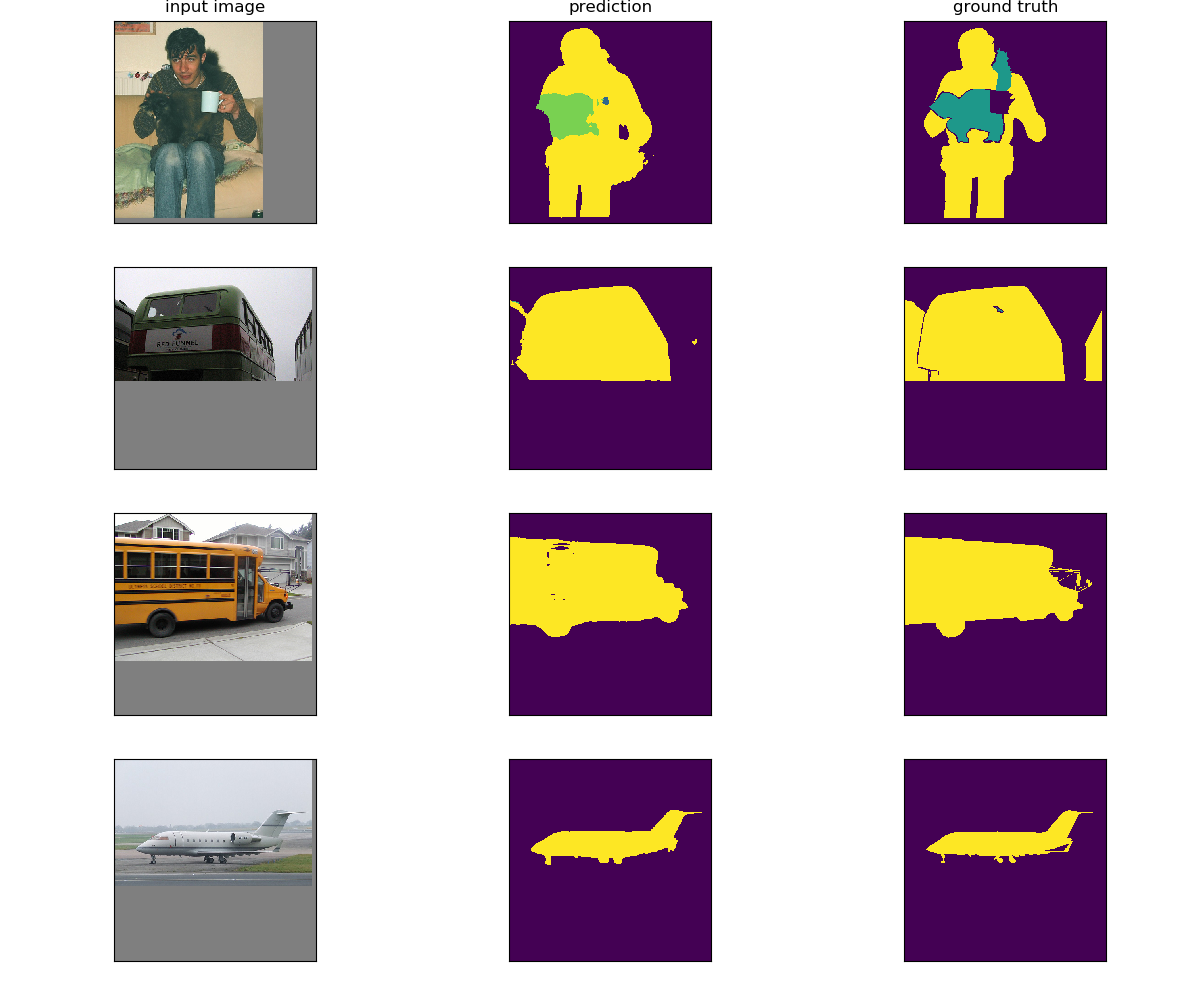
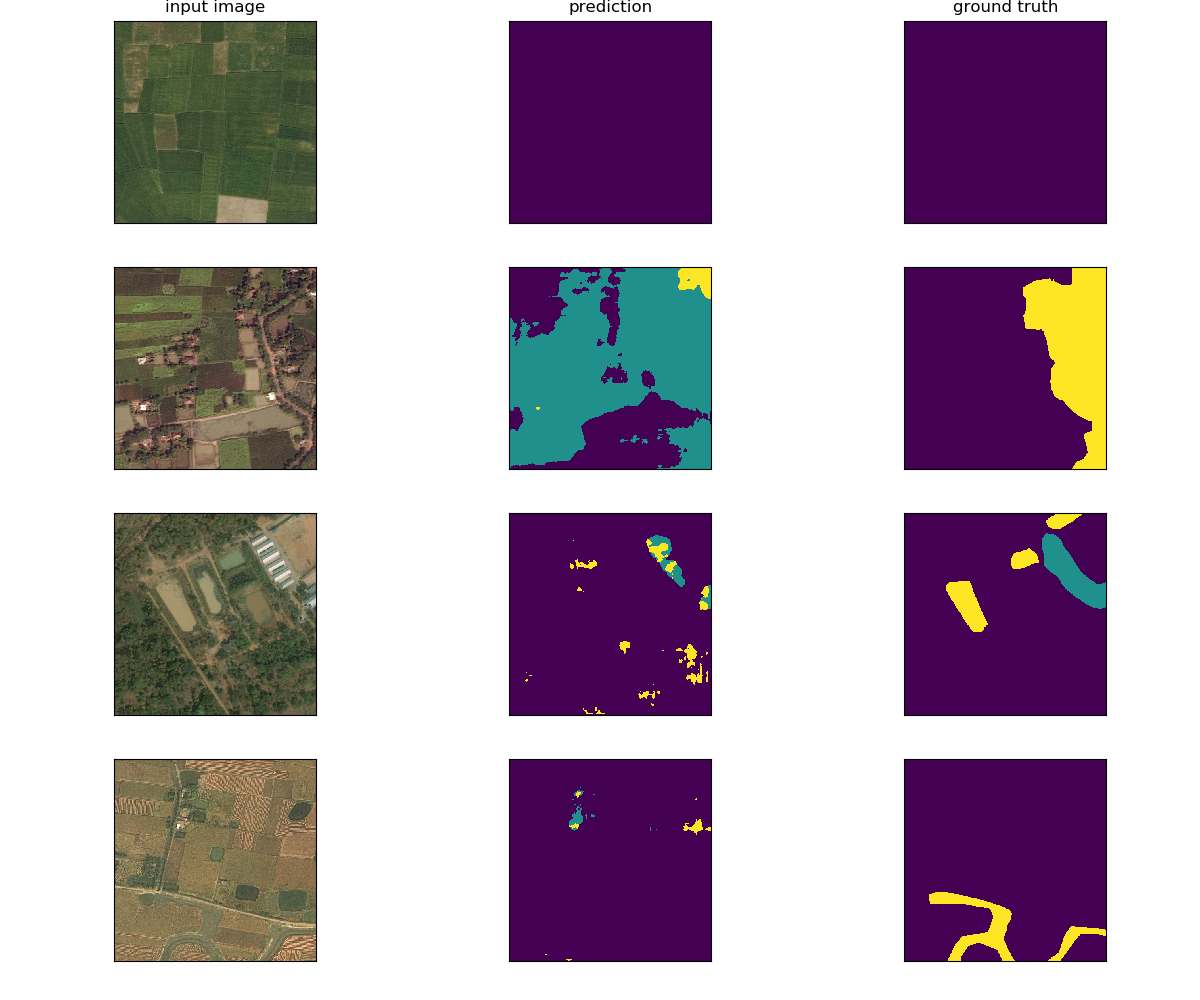
Centralize and clean testing scripts

diff --git a/src/tester.py b/src/tester.py
@@ -5,30 +5,107 @@ import cv2
 from PIL import Image
 from models.net import SPPNet
 
+import matplotlib.pyplot as plt
+import torch.nn.functional as F
+from torch.utils.data import DataLoader
+from models.net import SPPNet
+from dataset.cityscapes import CityscapesDataset
+from dataset.pascal_voc import PascalVocDataset
+from dataset.deepglobe import DeepGlobeDataset
+from utils.preprocess import minmax_normalize
+
 
 class Tester:
-    def __init__(self):
+    def __init__(self, model_path='../model/deepglobe_deeplabv3/model_tmp.pth', output_channels=19,
+                 split='valid', net_type='deeplab', batch_size=1, shuffle=True):
+        print('[Tester] [Init] Initializing tester...')
+
         matplotlib.use('Agg')
+        self.model_path = model_path
 
+        # Load model
+        print('[Tester] [Init] Loading model ' + model_path + ' with '+str(output_channels)+' output channels...')
 
-    @staticmethod
-    def infer_image_by_path(image_path='/home/ubuntu/data/Segmentation/pytorch-segmentation/test1.jpg',
-                            model_path='../model/cityscapes_deeplab_v3_plus/model.pth'):
-        print('Loading model '+model_path+'...')
-
-        device = torch.device('cuda:0' if torch.cuda.is_available() else 'cpu')
-        model = SPPNet(output_channels=19).to(device)
+        self.device = torch.device('cuda:0' if torch.cuda.is_available() else 'cpu')
+        self.model = SPPNet(output_channels=output_channels).to(self.device)
         param = torch.load(model_path)
-        model.load_state_dict(param)
+        self.model.load_state_dict(param)
         del param
 
-        print('...done!')
+        # valid_dataset = CityscapesDataset(split='valid', net_type='deeplab')
+        # valid_dataset = PascalVocDataset(split='valid', net_type='deeplab')
+        self.valid_dataset = DeepGlobeDataset(split=split, net_type=net_type)
+        self.valid_loader = DataLoader(self.valid_dataset, batch_size=batch_size, shuffle=shuffle)
 
+        print('[Tester] [Init] ...done!')
+        print('[Tester] [Init] Tester created.')
+
+    def make_demo_image(self):
+        images_list = []
+        labels_list = []
+        preds_list = []
+
+        print('[Tester] [Demo] Gathering images and inferring...')
+        self.model.eval()
+        with torch.no_grad():
+            for batched in self.valid_loader:
+                images, labels = batched
+                images_np = images.numpy().transpose(0, 2, 3, 1)
+                labels_np = labels.numpy()
+
+                images, labels = images.to(self.device), labels.to(self.device)
+                preds = self.model.tta(images, net_type='deeplab')
+                preds = preds.argmax(dim=1)
+                preds_np = preds.detach().cpu().numpy()
+
+                images_list.append(images_np)
+                labels_list.append(labels_np)
+                preds_list.append(preds_np)
+
+                if len(images_list) == 4:
+                    break
+
+        print('[Tester] [Demo] Processing results...')
+
+        images = np.concatenate(images_list)
+        labels = np.concatenate(labels_list)
+        preds = np.concatenate(preds_list)
+
+        # Ignore index
+        ignore_pixel = labels == 255
+        preds[ignore_pixel] = 0
+        labels[ignore_pixel] = 0
+
+        # Plot
+        fig, axes = plt.subplots(4, 3, figsize=(12, 10))
+        plt.tight_layout()
+
+        axes[0, 0].set_title('input image')
+        axes[0, 1].set_title('prediction')
+        axes[0, 2].set_title('ground truth')
+
+        for ax, img, lbl, pred in zip(axes, images, labels, preds):
+            ax[0].imshow(minmax_normalize(img, norm_range=(0, 1), orig_range=(-1, 1)))
+            ax[1].imshow(pred)
+            ax[2].imshow(lbl)
+            ax[0].set_xticks([])
+            ax[0].set_yticks([])
+            ax[1].set_xticks([])
+            ax[1].set_yticks([])
+            ax[2].set_xticks([])
+            ax[2].set_yticks([])
+
+        plt.savefig('eval.png')
+        plt.close()
+
+        print('[Tester] [Demo] Done.')
+
+    def infer_image_by_path(self, image_path='/home/ubuntu/data/Segmentation/pytorch-segmentation/test1.jpg'):
         # Notify layers that we are in eval mode (for batchnorm, dropout)
-        model.eval()
+        self.model.eval()
         # Deactivate autograd engine to reduce memory usage (no need backprop when inferring)
         with torch.no_grad():
-            print('Preparing image '+image_path+'...')
+            print('[Tester] [Single test] Preparing image ' + image_path + '...')
             img = cv2.imread(image_path, cv2.IMREAD_COLOR)
 
             # Transpose image to fit torch tensor format
@@ -38,13 +115,13 @@ class Tester:
             # Conversion to float to fit torch model
             img_tensor = img_tensor.float()
 
-            print('Inferring...')
+            print('[Tester] [Single test] Inferring...')
 
             # Send to CPU or GPU depending on the hardware found
-            img_tensor = img_tensor.to(device)
+            img_tensor = img_tensor.to(self.device)
 
             # Generate predictions
-            preds = model.tta(img_tensor, net_type='deeplab')
+            preds = self.model.tta(img_tensor, net_type='deeplab')
             # Not sure what this does in initial code, probably helps extracting a single class
             preds = preds.argmax(dim=1)
 
@@ -52,16 +129,17 @@ class Tester:
             preds_np = preds.detach().cpu().numpy()
             preds_np = preds_np[0]
 
-            print('Generating mask...')
+            print('[Tester] [Single test] Generating mask...')
 
             pred_pil = Image.fromarray(preds_np.astype(np.uint8))
             pred_pil.show()
 
-            print('Done.')
+            print('[Tester] [Single test] Done.')
 
 
 if __name__ == '__main__':
-    tester = Tester()
+    # model_path = '../model/pascal_deeplabv3p_with_pretrained/model.pth'
+    tester = Tester(model_path='../model/deepglobe_deeplabv3/model_tmp.pth')
     tester.infer_image_by_path()
-    # tester.infer_image_by_path(image_path='../data/pascal_voc_2012/VOCdevkit/VOC2012/JPEGImages/2007_000549.jpg',
-    #                            model_path='../model/pascal_deeplabv3p_with_pretrained/model.pth')
+    # tester.infer_image_by_path(image_path='../data/pascal_voc_2012/VOCdevkit/VOC2012/JPEGImages/2007_000549.jpg')
+    tester.make_demo_image()
